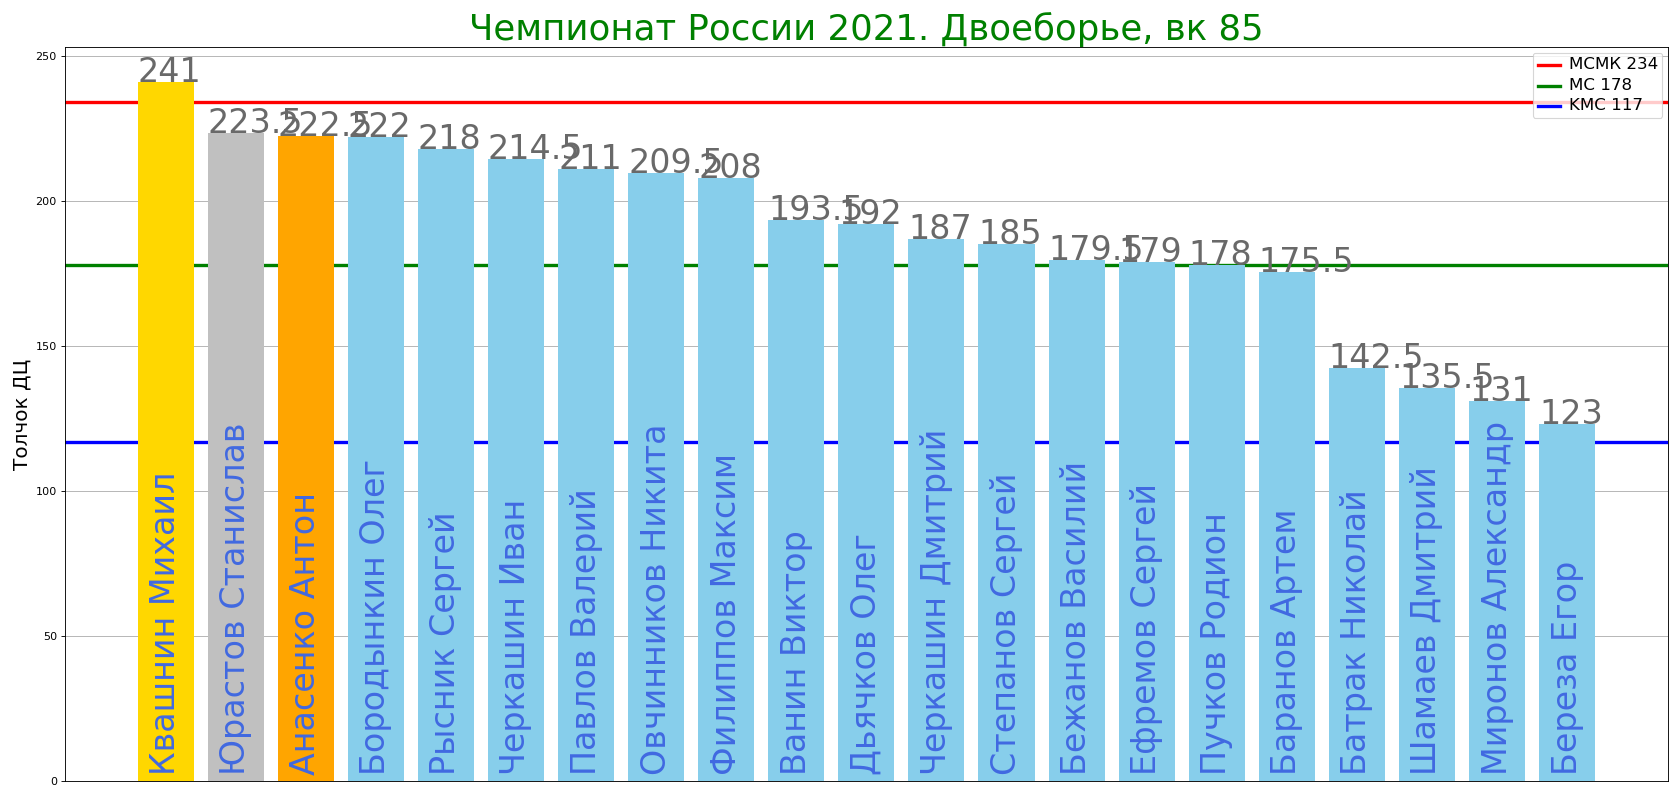
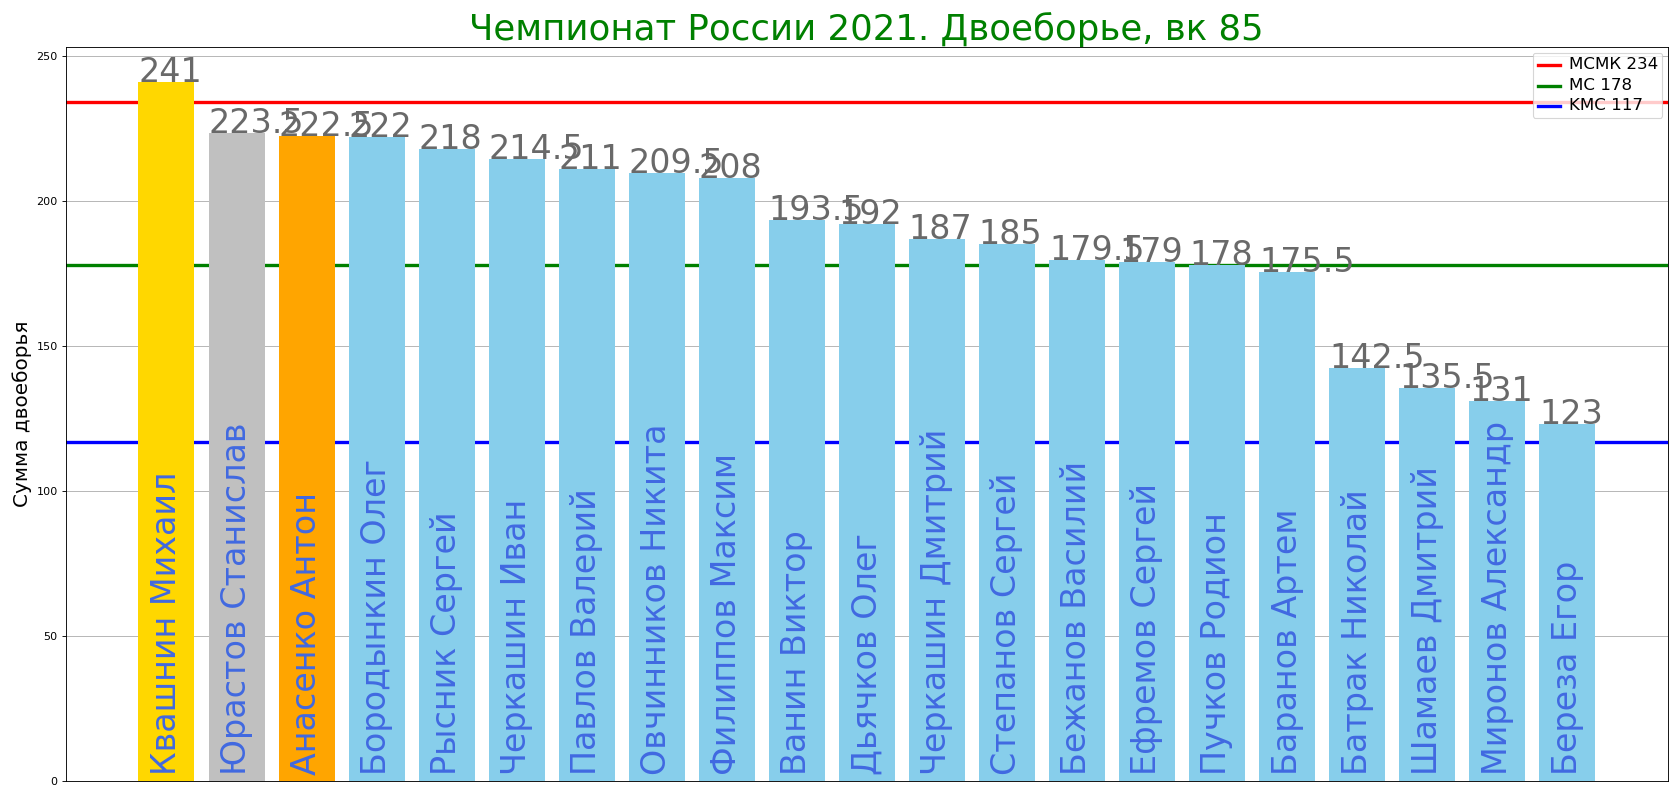
fix path

diff --git a/pages/RC2021.md b/pages/RC2021.md
@@ -1,10 +1,13 @@
+[вернуться на главную](https://alekseidudchenko.github.io/giristat/)
 # Чемпионат России по Гиревому спорту 2021
 
 ## Двоеборье
 ![image](../images/bar_resultsBI63_CR_2021.png)
 ![image](../images/bar_resultsBI68_CR_2021.png)
 ![image](../images/bar_resultsLC73_CR_2021.png)
+![image](../images/bar_resultsLC85_CR_2021.png)
 ![image](../images/bar_resultsLC85+_CR_2021.png)
 
 ## Длинный цикл 
 
+[вернуться на главную](https://alekseidudchenko.github.io/giristat/)
